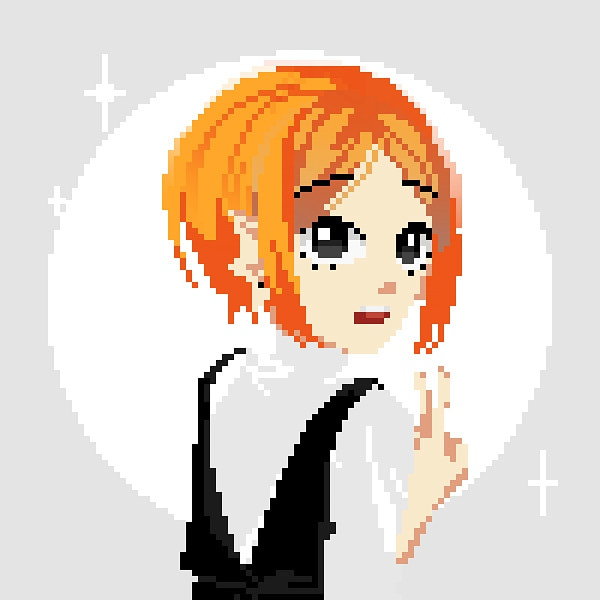
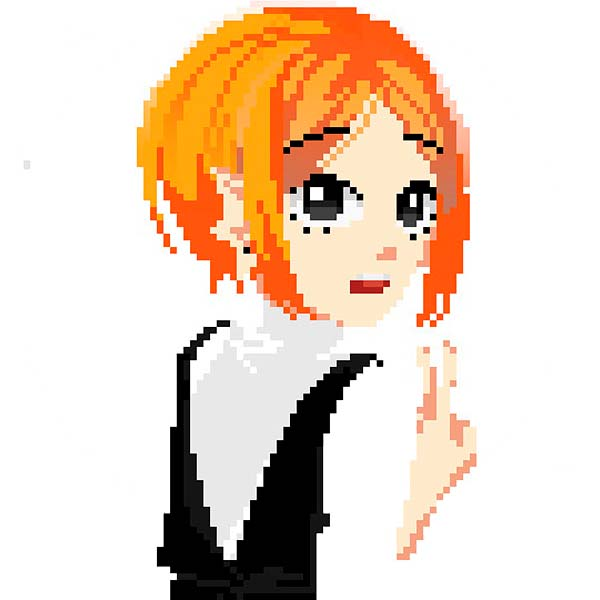
link a clases y transiciones

diff --git a/clases/clase-3.html b/clases/clase-3.html
@@ -6,7 +6,7 @@
     <meta http-equiv="X-UA-Compatible" content="IE=edge">
     <meta name="viewport" content="width=device-width, initial-scale=1.0">
     <title>Bitácora Javiera Ruiz</title>
-    <link rel="shortcut icon" href="../imagenes/chebu.png">
+    <link rel="shortcut icon" href="../assets/imagenes/chebu.png">
     <link rel="stylesheet" href="../assets/style.css" media="all">
     <link rel="preconnect" href="https://fonts.googleapis.com">
     <link rel="preconnect" href="https://fonts.gstatic.com" crossorigin>
@@ -18,11 +18,11 @@
 <body>
     <header>
         <div class="wrapper">
-            <div class="logo">Bitácora ddec 2021</div>
+            <div class="logo">Bitácora Javiera</div>
             
             <nav>
-                <a href="#">Inicio</a>
-                <a href="#">Wiki Casiopea</a>
+                <a href="../index.html">Inicio</a>
+                <a href="clases.html">Clases</a>
                 
             </nav>
         </div>

diff --git a/clases/clase-1.html b/clases/clase-1.html
@@ -6,7 +6,7 @@
     <meta http-equiv="X-UA-Compatible" content="IE=edge">
     <meta name="viewport" content="width=device-width, initial-scale=1.0">
     <title>Bitácora Javiera Ruiz</title>
-    <link rel="shortcut icon" href="../imagenes/chebu.png">
+    <link rel="shortcut icon" href="../assets/imagenes/chebu.png">
     <link rel="stylesheet" href="../assets/style.css" media="all">
     <link rel="preconnect" href="https://fonts.googleapis.com">
     <link rel="preconnect" href="https://fonts.gstatic.com" crossorigin>
@@ -21,8 +21,8 @@
             <div class="logo">Bitácora Javiera</div>
             
             <nav>
-                <a href="#">Inicio</a>
-                <a href="#">Wiki Casiopea</a>
+                <a href="../index.html">Inicio</a>
+                <a href="clases.html">Clases</a>
                 
             </nav>
         </div>

diff --git a/clases/clase-2.html b/clases/clase-2.html
@@ -6,7 +6,7 @@
     <meta http-equiv="X-UA-Compatible" content="IE=edge">
     <meta name="viewport" content="width=device-width, initial-scale=1.0">
     <title>Bitácora Javiera Ruiz</title>
-    <link rel="shortcut icon" href="../imagenes/chebu.png">
+    <link rel="shortcut icon" href="../assets/imagenes/chebu.png">
     <link rel="stylesheet" href="../assets/style.css" media="all">
     <link rel="preconnect" href="https://fonts.googleapis.com">
     <link rel="preconnect" href="https://fonts.gstatic.com" crossorigin>
@@ -21,8 +21,8 @@
             <div class="logo">Bitácora Javiera</div>
             
             <nav>
-                <a href="#">Inicio</a>
-                <a href="#">Wiki Casiopea</a>
+                <a href="../index.html">Inicio</a>
+                <a href="clases.html">Clases</a>
                 
             </nav>
         </div>

diff --git a/clases/clase-4.html b/clases/clase-4.html
@@ -6,7 +6,7 @@
     <meta http-equiv="X-UA-Compatible" content="IE=edge">
     <meta name="viewport" content="width=device-width, initial-scale=1.0">
     <title>Bitácora Javiera Ruiz</title>
-    <link rel="shortcut icon" href="../imagenes/chebu.png">
+    <link rel="shortcut icon" href="../assets/imagenes/chebu.png">
     <link rel="stylesheet" href="../assets/style.css" media="all">
     <link rel="preconnect" href="https://fonts.googleapis.com">
     <link rel="preconnect" href="https://fonts.gstatic.com" crossorigin>
@@ -21,8 +21,8 @@
             <div class="logo">Bitácora Javiera</div>
             
             <nav>
-                <a href="#">Inicio</a>
-                <a href="#">Wiki Casiopea</a>
+                <a href="../index.html">Inicio</a>
+                <a href="clases.html">Clases</a>
                 
             </nav>
         </div>

diff --git a/assets/style.css b/assets/style.css
@@ -125,7 +125,7 @@ header nav a:hover {
 .contenedor-1 img {
   position: absolute;
   left: 0;
-  transition: opacity 1.5s ease-in-out;
+  transition: opacity 1.1s ease-in-out;
 }
 
 .contenedor-1 img.top:hover {
@@ -145,7 +145,7 @@ header nav a:hover {
 .contenedor-2 img {
   position: absolute;
   left: 0;
-  transition: opacity 1.5s ease-in-out;
+  transition: opacity 1s ease-in-out;
 }
 
 .contenedor-2 img.top:hover {
@@ -166,7 +166,7 @@ header nav a:hover {
 .contenedor-3 img {
   position: absolute;
   left: 0;
-  transition: opacity 1.5s ease-in-out;
+  transition: opacity 1s ease-in-out;
 }
 
 .contenedor-3 img.top:hover {

diff --git a/sobre_mi.html b/sobre_mi.html
@@ -52,7 +52,8 @@
                 A pesar de que esta sea un trabajo académico, no logré verlo únicamente de esa manera,
                 ya que pude jugar con lo aprendido en la asignatura y lo que me gusta de una manera libre,
                 logrando mostrar el contenido de forma muy personal. </p></div>
-                <img src="assets/imagenes/yopopo.jpg"  width="300" height="300">
+                
+                <img src="assets/imagenes/yo.jpg"  width="330" height="330">
                 
 
         </div>
